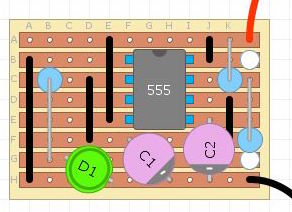
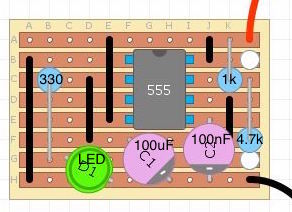
Added labels and circuit
Added labels to strip board and added circuit diagram.

diff --git a/Pages/4.html b/Pages/4.html
@@ -206,6 +206,13 @@ for the JavaScript code in this tag.
 <ul class="org-ul">
 <li>Using DIYlc, design your own <a href="http://www.electronics-tutorials.ws/waveforms/555_oscillator.html">555 Astable</a> circuit.
 </li>
+</ul>
+
+<div class="figure">
+<p><img src="./img/Circuit555.JPG" alt="Circuit555.JPG" />
+</p>
+</div>
+<ul class="org-ul">
 <li>You can find DIYlc <i>here</i> on the open drive <b>G:\Systems and Control\Student Home software\DIYlc</b>.
 </li>
 <li>below is an example, but you can create your own design.
@@ -266,11 +273,6 @@ for the JavaScript code in this tag.
 </li>
 </ul>
 </div>
-</div>
-</div>
-</div>
-<div id="postamble" class="status">
-<p class="validation"></p>
 </div>
 </body>
 </html>
